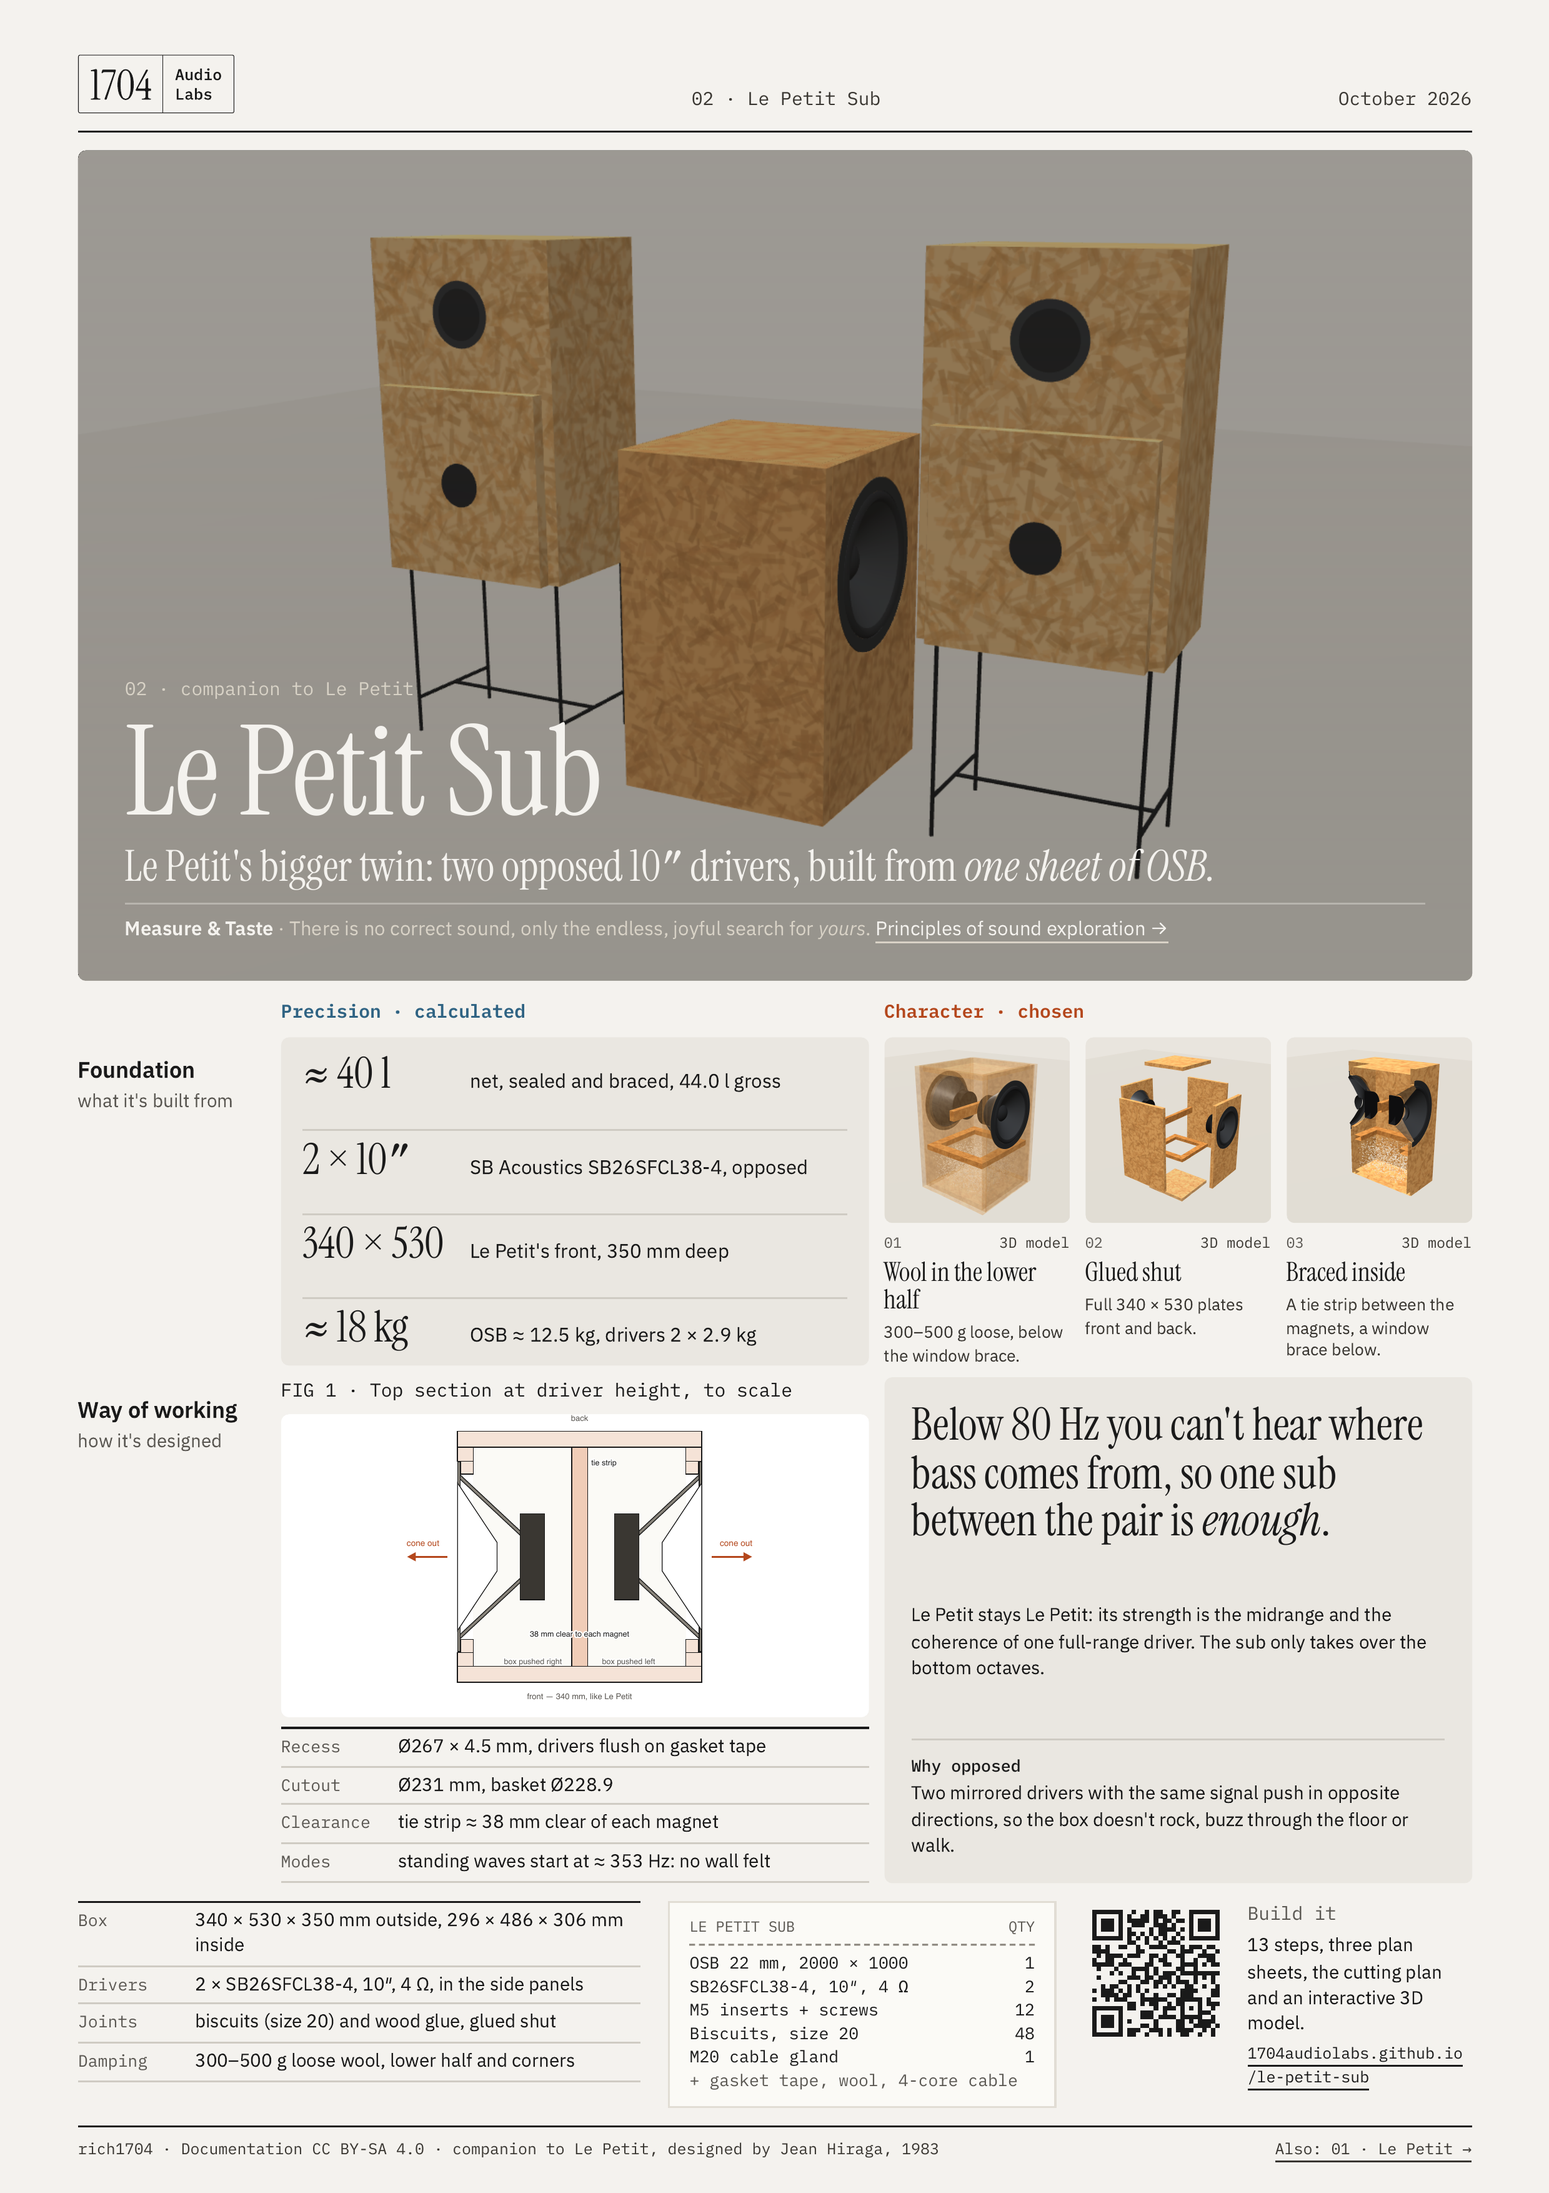
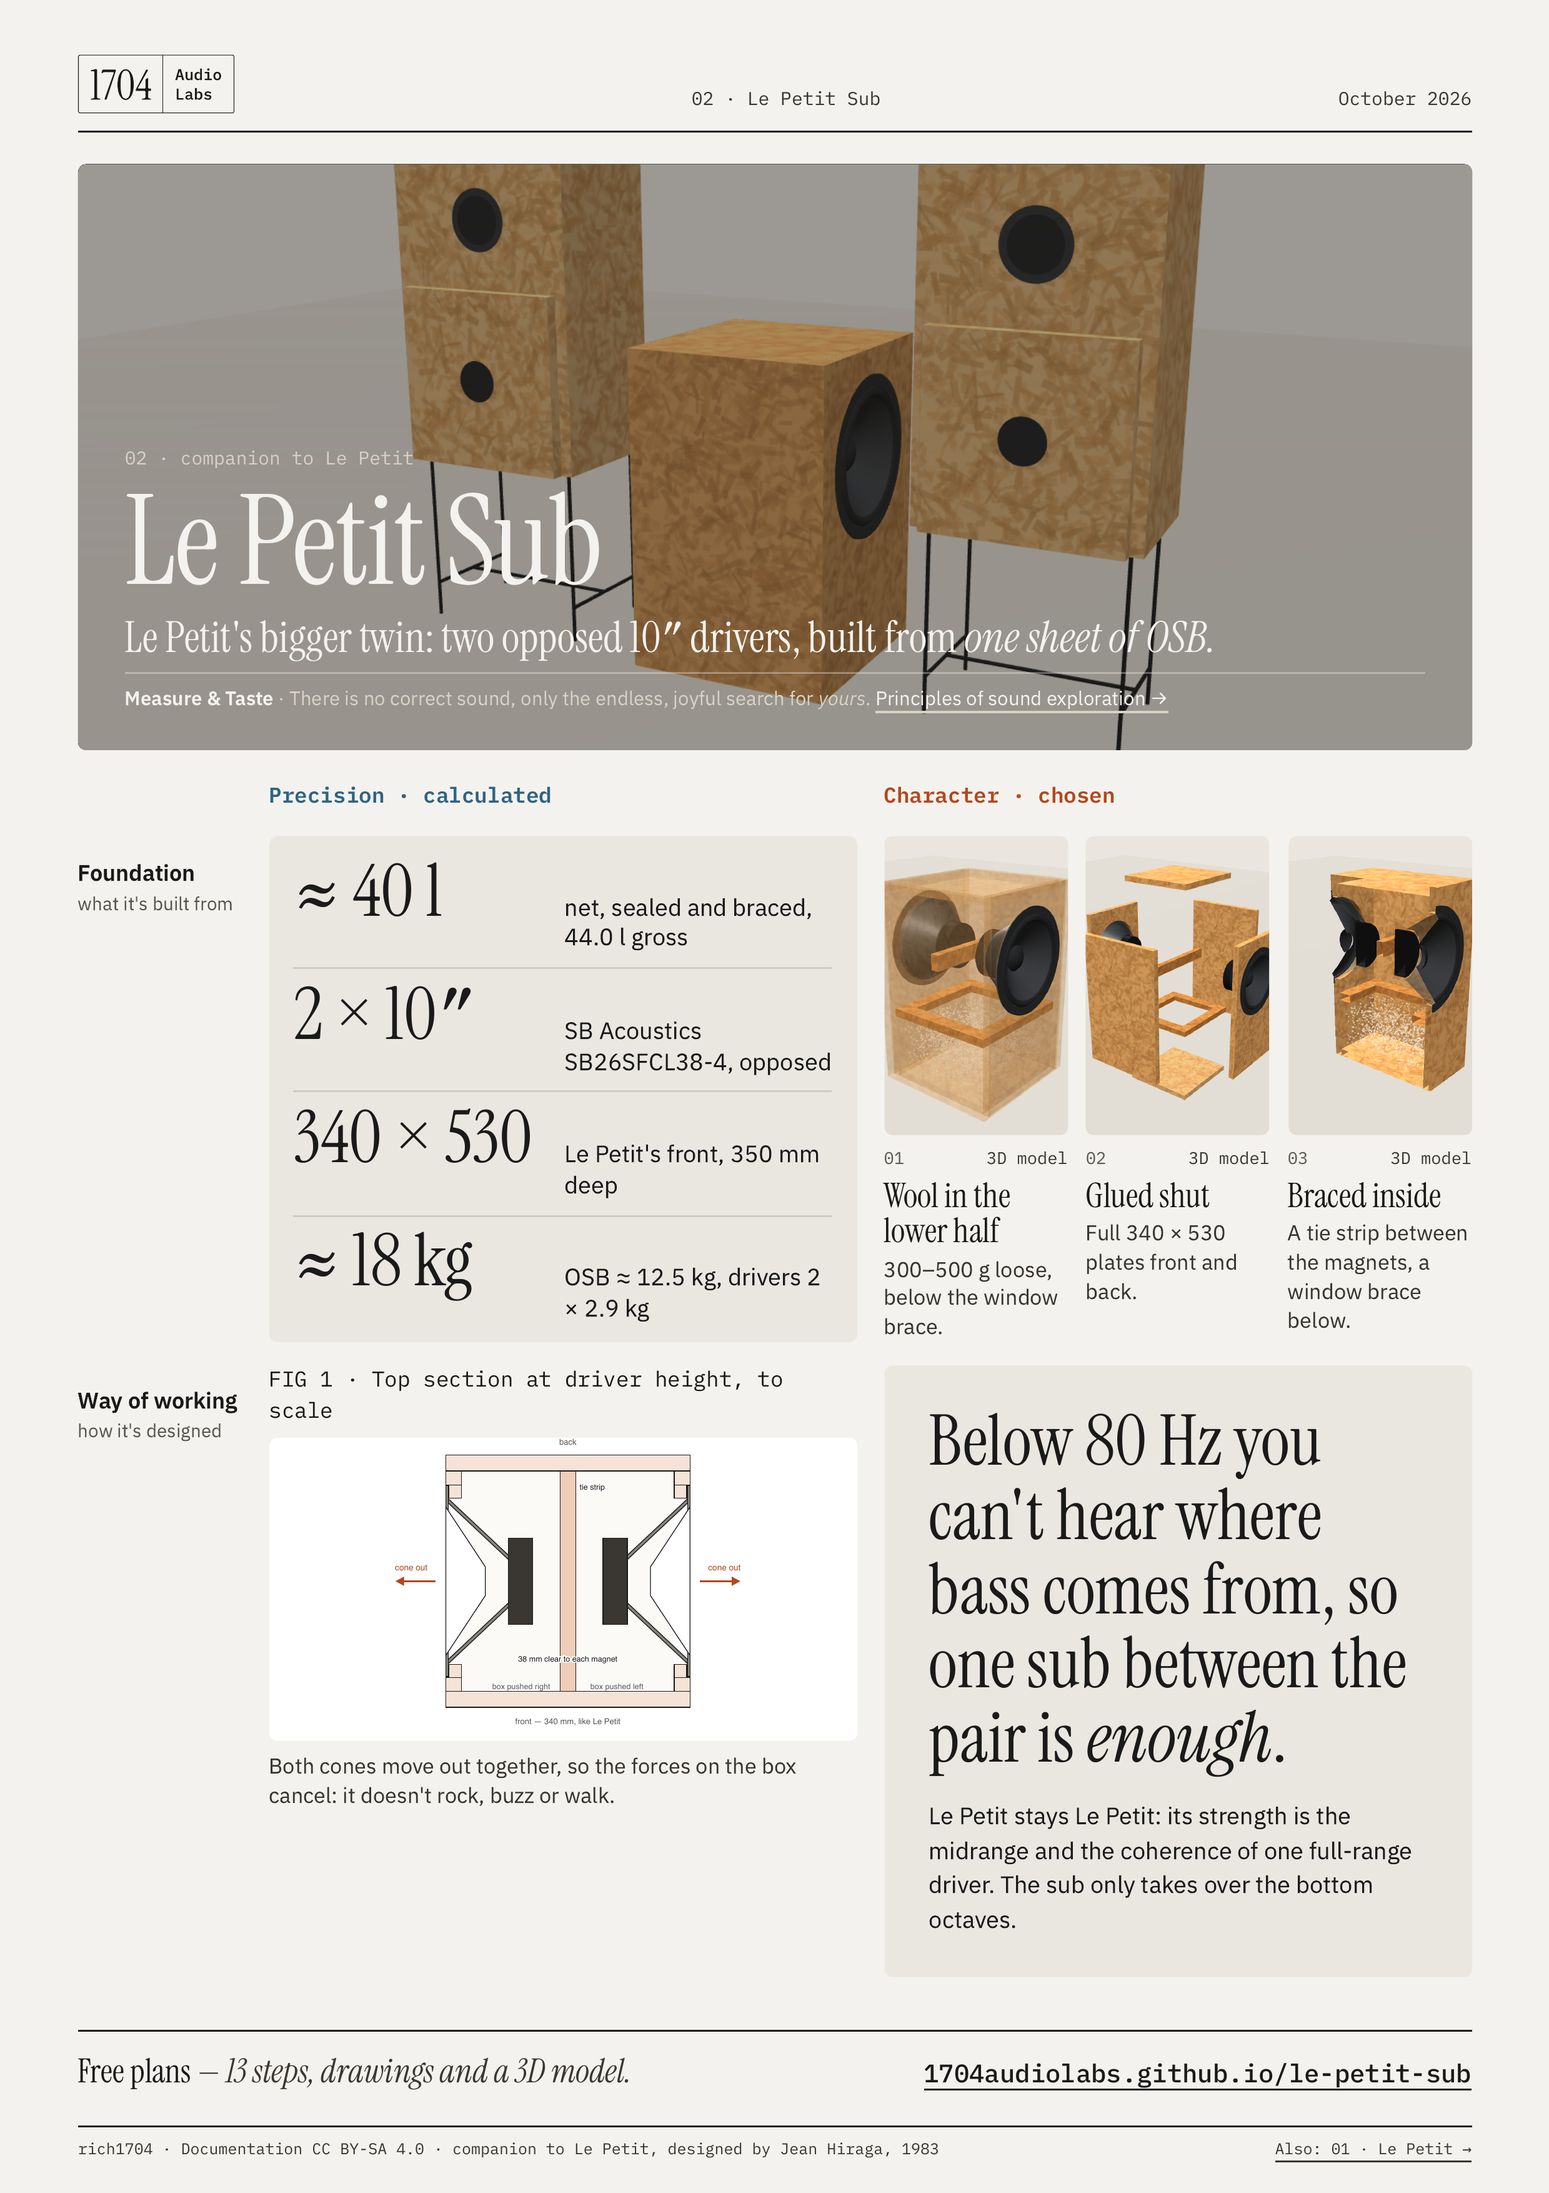
One-sheet: trimmed to spark interest — smaller cover, no QR, spec sheet or parts list, the URL in the footer, the content fills the page

Changed region(s): [[0.0311, 0.0621, 0.9629, 0.9632], [0.0311, 0.6214, 0.1553, 0.6836], [0.1864, 0.6214, 0.2174, 0.6525]]

diff --git a/docs/assets/one-sheet.css b/docs/assets/one-sheet.css
@@ -25,9 +25,9 @@ a:hover { color: var(--graphite); }
 .tools button:hover { color: var(--graphite); border-color: var(--graphite); }
 .wrap { container-type: inline-size; width: min(100% - 32px, 920px); margin: 16px auto 40px; }
 
-.sheet { --u: calc(100cqw / 794); width: 100cqw; aspect-ratio: 210 / 297; overflow: hidden; background: var(--paper);
+.sheet { --u: calc(100cqw / 794); --u0: calc(100cqw / 794); width: 100cqw; aspect-ratio: 210 / 297; overflow: hidden; background: var(--paper);
   padding: calc(28 * var(--u)) calc(40 * var(--u)) calc(16 * var(--u)); display: flex; flex-direction: column;
-  gap: calc(9 * var(--u)); font-size: calc(10.5 * var(--u)); line-height: 1.45; }
+  gap: calc(16 * var(--u)); font-size: calc(10.5 * var(--u)); line-height: 1.45; }
 .sheet p, .sheet h1, .sheet h2 { margin: 0; }
 .lab { font-family: var(--mono); font-size: calc(9.5 * var(--u)); color: var(--pencil); }
 .lab--p { color: var(--ink); }
@@ -41,7 +41,7 @@ a:hover { color: var(--graphite); }
 
 /* cover band: photo + the project's name and finding, the claim and the link to the principles on the hub.
    It takes up the height the project and the footer leave, like the website's cover. */
-.cover { position: relative; flex: 1 1 auto; min-height: calc(300 * var(--u)); border-radius: 4px; overflow: hidden;
+.cover { position: relative; flex: 0 0 auto; height: calc(300 * var(--u)); border-radius: 4px; overflow: hidden;
   background: var(--walnut); color: var(--on-dark); display: flex; flex-direction: column; justify-content: flex-end; }
 .cover img { position: absolute; inset: 0; width: 100%; height: 100%; object-fit: cover; opacity: .62; }
 .cover::before { content: ""; position: absolute; inset: 0; background: linear-gradient(180deg, rgba(30,28,25,.35) 0%,
@@ -60,35 +60,37 @@ a:hover { color: var(--graphite); }
 .cover__claim a:hover { color: var(--on-dark-muted); }
 
 /* the project's 2 x 2 grid: the principles' columns and rows, filled with evidence */
-.grid { display: grid; grid-template-columns: calc(96 * var(--u)) minmax(0, 1fr) minmax(0, 1fr);
-  gap: calc(6 * var(--u)) calc(8 * var(--u)); }
+/* the content block scales (--fill, set by the fit script in one-sheet.html) until it fills the page exactly */
+.applied { --u: calc(100cqw / 794 * var(--fill, 1)); flex: 0 0 auto; }
+.grid { display: grid; grid-template-columns: calc(84 * var(--u0)) minmax(0, 1fr) minmax(0, 1fr);
+  gap: calc(10 * var(--u)) calc(12 * var(--u)); }
 .col { font-family: var(--mono); font-size: calc(9.5 * var(--u)); font-weight: 600; padding: 0 0 calc(1 * var(--u)); }
 .col--p { color: var(--precision); } .col--c { color: var(--character); }
 .row { display: flex; flex-direction: column; gap: calc(1 * var(--u)); padding-top: calc(9 * var(--u)); }
-.row b { font-weight: 600; font-size: calc(11.5 * var(--u)); }
-.row span { font-size: calc(9.5 * var(--u)); color: var(--pencil); line-height: 1.3; }
+.row b { font-weight: 600; font-size: calc(11.5 * var(--u0)); }
+.row span { font-size: calc(9.5 * var(--u0)); color: var(--pencil); line-height: 1.3; }
 .cell { border-radius: 4px; padding: calc(8 * var(--u)) calc(11 * var(--u)); display: flex; flex-direction: column;
   gap: calc(4 * var(--u)); min-width: 0; }
 .tint-p, .tint-c { background: var(--tint); color: var(--ink); }
 
 /* key figures */
 .figures { gap: calc(6 * var(--u)); justify-content: space-between; }
-.figures p { display: grid; grid-template-columns: calc(78 * var(--u)) minmax(0, 1fr); gap: calc(8 * var(--u));
+.figures p { display: grid; grid-template-columns: calc(112 * var(--u)) minmax(0, 1fr); gap: calc(8 * var(--u));
   align-items: baseline; border-top: 1px solid var(--rule); padding-top: calc(4 * var(--u)); }
 .figures p:first-child { border-top: 0; padding-top: 0; }
-.figures strong { font-family: var(--display); font-weight: 400; font-size: calc(22 * var(--u)); line-height: 1; white-space: nowrap; }
-.figures span { font-size: calc(10 * var(--u)); line-height: 1.3; }
+.figures strong { font-family: var(--display); font-weight: 400; font-size: calc(32 * var(--u)); line-height: 1; white-space: nowrap; }
+.figures span { font-size: calc(10.5 * var(--u)); line-height: 1.3; }
 
 /* plates: materials staged like catalogue objects */
 .plates { display: grid; grid-template-columns: repeat(3, minmax(0, 1fr)); gap: calc(8 * var(--u)); padding: 0; }
 .plate { margin: 0; display: flex; flex-direction: column; gap: calc(3 * var(--u)); min-width: 0; }
-.plate img { width: 100%; aspect-ratio: 1; object-fit: cover; border-radius: 4px; display: block; background: var(--walnut); }
+.plate img { width: 100%; height: calc(132 * var(--u)); object-fit: cover; border-radius: 4px; display: block; background: var(--walnut); }
 .plate img.crop-floor { object-position: 50% 92%; }
 .plate__meta { display: flex; justify-content: space-between; gap: calc(4 * var(--u)); font-family: var(--mono);
   font-size: calc(7.5 * var(--u)); white-space: nowrap; color: var(--pencil); padding-top: calc(2 * var(--u)); }
 .plate__meta span:last-child { color: var(--graphite); text-align: right; }
-.plate__title { font-family: var(--display); font-size: calc(13.5 * var(--u)); line-height: 1.05; }
-.plate__text { font-size: calc(8.5 * var(--u)); line-height: 1.35; color: var(--graphite); }
+.plate__title { font-family: var(--display); font-size: calc(15 * var(--u)); line-height: 1.05; }
+.plate__text { font-size: calc(9.5 * var(--u)); line-height: 1.35; color: var(--graphite); }
 
 /* figure + before/after */
 .fig { padding: 0; gap: calc(5 * var(--u)); }
@@ -110,28 +112,20 @@ a:hover { color: var(--graphite); }
 .spec p > span:first-child { font-family: var(--mono); font-size: calc(8.5 * var(--u)); color: var(--pencil); }
 
 /* listening note */
-.note { justify-content: space-between; gap: calc(10 * var(--u)); padding: calc(12 * var(--u)) calc(14 * var(--u)); }
-.note__quote { font-family: var(--display); font-size: calc(23 * var(--u)); line-height: 1.06; }
-.note__text { font-size: calc(9.5 * var(--u)); line-height: 1.45; }
+.note { justify-content: space-between; gap: calc(10 * var(--u)); padding: calc(18 * var(--u)) calc(20 * var(--u)); }
+.note__quote { font-family: var(--display); font-size: calc(31 * var(--u)); line-height: 1.06; }
+.note__text { font-size: calc(10.5 * var(--u)); line-height: 1.45; }
 .note__next { font-size: calc(9.5 * var(--u)); line-height: 1.45; padding-top: calc(7 * var(--u));
   border-top: 1px solid var(--rule); }
 .note__next b { font-family: var(--mono); font-weight: 500; font-size: calc(8.5 * var(--u)); display: block; }
 
-/* footer: spec, receipt, build it */
-.foot { display: grid; grid-template-columns: minmax(0, 1.45fr) minmax(0, 1fr) minmax(0, 1fr); gap: calc(14 * var(--u));
-  align-items: start; margin-top: auto; }
-.receipt { background: var(--receipt); border: 1px solid var(--rule-soft); padding: calc(7 * var(--u)) calc(10 * var(--u));
-  font-family: var(--mono); font-size: calc(8.5 * var(--u)); line-height: 1.42; }
-.receipt p { display: grid; grid-template-columns: minmax(0, 1fr) auto; gap: calc(8 * var(--u)); }
-.receipt .head { font-size: calc(7.5 * var(--u)); color: var(--pencil); padding-bottom: calc(3 * var(--u));
-  margin-bottom: calc(3 * var(--u)); border-bottom: 1px dashed var(--reference); }
-.receipt .total { font-weight: 500; padding-top: calc(3 * var(--u)); margin-top: calc(3 * var(--u)); border-top: 1px dashed var(--reference); }
-.receipt .extra { color: var(--pencil); }
-.build { display: grid; grid-template-columns: calc(74 * var(--u)) minmax(0, 1fr); gap: calc(10 * var(--u)); align-items: start; }
-.build img { width: 100%; display: block; }
-.build p { font-size: calc(9.5 * var(--u)); line-height: 1.4; }
-.build .lab { display: block; margin-bottom: calc(3 * var(--u)); }
-.build .url { font-family: var(--mono); font-size: calc(8 * var(--u)); overflow-wrap: anywhere; margin-top: calc(4 * var(--u)); display: block; }
+/* footer: where to get it — one line and the address, nothing to scan */
+.getit { margin-top: auto; display: flex; justify-content: space-between; align-items: baseline; gap: calc(16 * var(--u));
+  flex-wrap: wrap; padding-top: calc(10 * var(--u)); border-top: 1px solid var(--ink); }
+.getit__line { font-family: var(--display); font-size: calc(17 * var(--u)); line-height: 1.2; flex: 1 1 calc(380 * var(--u)); }
+.getit__line i { color: var(--graphite); }
+.getit__url { font-family: var(--mono); font-weight: 500; font-size: calc(13 * var(--u)); color: var(--ink); white-space: nowrap; }
+.fig__cap { font-size: calc(9.5 * var(--u)); line-height: 1.4; color: var(--graphite); }
 .colophon { display: flex; justify-content: space-between; gap: calc(12 * var(--u)); flex-wrap: wrap;
   padding-top: calc(6 * var(--u)); border-top: 1px solid var(--ink); font-family: var(--mono);
   font-size: calc(8 * var(--u)); color: var(--graphite); }
@@ -152,8 +146,10 @@ a:hover { color: var(--graphite); }
   .applied .cell { padding-left: 14px; padding-right: 14px; }
   .applied .plates, .applied .fig { padding: 0; }
   .applied .row b::after { content: attr(data-cols); font-family: var(--mono); font-weight: 400; color: var(--pencil); margin-left: 8px; font-size: 11px; }
-  .foot { grid-template-columns: minmax(0, 1fr); gap: 20px; }
-  .build { grid-template-columns: 88px minmax(0, 1fr); }
+  .getit__url { font-size: 15px; }
+  .applied { --u: 1.3px; }
+  .sheet { --u0: 1.3px; }
+  .plate img { height: auto; aspect-ratio: 4 / 5; }
 }
 
 /* print: exactly one A4 page */

diff --git a/overrides/one-sheet.html b/overrides/one-sheet.html
@@ -31,5 +31,28 @@
 {{ page.content }}
 </article>
 </div>
+<script>
+/* Fill the A4 page: grow the content block (--fill) until the sheet's content just fits its height. */
+(function () {
+  var sheet = document.querySelector('.sheet'), block = document.querySelector('.applied');
+  if (!sheet || !block) return;
+  function fits() { return sheet.scrollHeight <= sheet.clientHeight + 0.5; }
+  function fit() {
+    if (matchMedia('(max-width: 700px)').matches) { block.style.removeProperty('--fill'); return; }
+    var lo = 1, hi = 1.6;
+    block.style.setProperty('--fill', lo);
+    for (var i = 0; i < 18; i++) {
+      var mid = (lo + hi) / 2; block.style.setProperty('--fill', mid);
+      if (fits()) lo = mid; else hi = mid;
+    }
+    block.style.setProperty('--fill', lo);
+  }
+  (document.fonts ? document.fonts.ready : Promise.resolve()).then(function () {
+    var imgs = [].slice.call(document.images).map(function (im) { return im.complete ? 0 : new Promise(function (r) { im.onload = im.onerror = r; }); });
+    Promise.all(imgs).then(fit);
+  });
+  addEventListener('resize', fit); addEventListener('beforeprint', fit);
+})();
+</script>
 </body>
 </html>

diff --git a/docs/one-sheet.md b/docs/one-sheet.md
@@ -33,38 +33,15 @@ sheet_label: One-sheet — Le Petit Sub
 <div class="cell fig">
 <span class="lab lab--p">FIG 1 · Top section at driver height, to scale</span>
 <div class="fig__frame fig__frame--crop"><img src="../assets/diagrams/opposed-drivers.svg" alt="Top section: two drivers in the side panels, magnets facing each other; both cones move out together, so the pushes on the box cancel"></div>
-<div class="spec">
-<p><span>Recess</span><span>Ø267 × 4.5 mm, drivers flush on gasket tape</span></p>
-<p><span>Cutout</span><span>Ø231 mm, basket Ø228.9</span></p>
-<p><span>Clearance</span><span>tie strip ≈ 38 mm clear of each magnet</span></p>
-<p><span>Modes</span><span>standing waves start at ≈ 353 Hz: no wall felt</span></p>
-</div>
+<p class="fig__cap">Both cones move out together, so the forces on the box cancel: it doesn't rock, buzz or walk.</p>
 </div>
 <div class="cell tint-c note">
 <p class="note__quote">Below 80 Hz you can't hear where bass comes from, so one sub between the pair is <i>enough</i>.</p>
 <p class="note__text">Le Petit stays Le Petit: its strength is the midrange and the coherence of one full-range driver. The sub only takes over the bottom octaves.</p>
-<p class="note__next"><b>Why opposed</b>Two mirrored drivers with the same signal push in opposite directions, so the box doesn't rock, buzz through the floor or walk.</p>
 </div>
 </section>
-<footer class="foot">
-<div class="spec">
-<p><span>Box</span><span>340 × 530 × 350 mm outside, 296 × 486 × 306 mm inside</span></p>
-<p><span>Drivers</span><span>2 × SB26SFCL38-4, 10″, 4 Ω, in the side panels</span></p>
-<p><span>Joints</span><span>biscuits (size 20) and wood glue, glued shut</span></p>
-<p><span>Damping</span><span>300–500 g loose wool, lower half and corners</span></p>
-</div>
-<div class="receipt">
-<p class="head"><span>LE PETIT SUB</span><span>QTY</span></p>
-<p><span>OSB 22 mm, 2000 × 1000</span><span>1</span></p>
-<p><span>SB26SFCL38-4, 10″, 4 Ω</span><span>2</span></p>
-<p><span>M5 inserts + screws</span><span>12</span></p>
-<p><span>Biscuits, size 20</span><span>48</span></p>
-<p><span>M20 cable gland</span><span>1</span></p>
-<p class="extra"><span>+ gasket tape, wool, 4-core cable</span><span></span></p>
-</div>
-<div class="build">
-<img src="../assets/one-sheet-qr.svg" alt="QR code linking to 1704audiolabs.github.io/le-petit-sub">
-<p><span class="lab">Build it</span>13 steps, three plan sheets, the cutting plan and an interactive 3D model.<a class="url" href="https://1704audiolabs.github.io/le-petit-sub/">1704audiolabs.github.io/<wbr>le-petit-sub</a></p>
-</div>
+<footer class="getit">
+<p class="getit__line">Free plans — <i>13 steps, drawings and a 3D model.</i></p>
+<a class="getit__url" href="https://1704audiolabs.github.io/le-petit-sub/">1704audiolabs.github.io/le-petit-sub</a>
 </footer>
 <p class="colophon"><span>rich1704 · Documentation CC BY-SA 4.0 · companion to Le Petit, designed by Jean Hiraga, 1983</span><a href="https://1704audiolabs.github.io/le-petit/one-sheet/">Also: 01 · Le Petit →</a></p>
